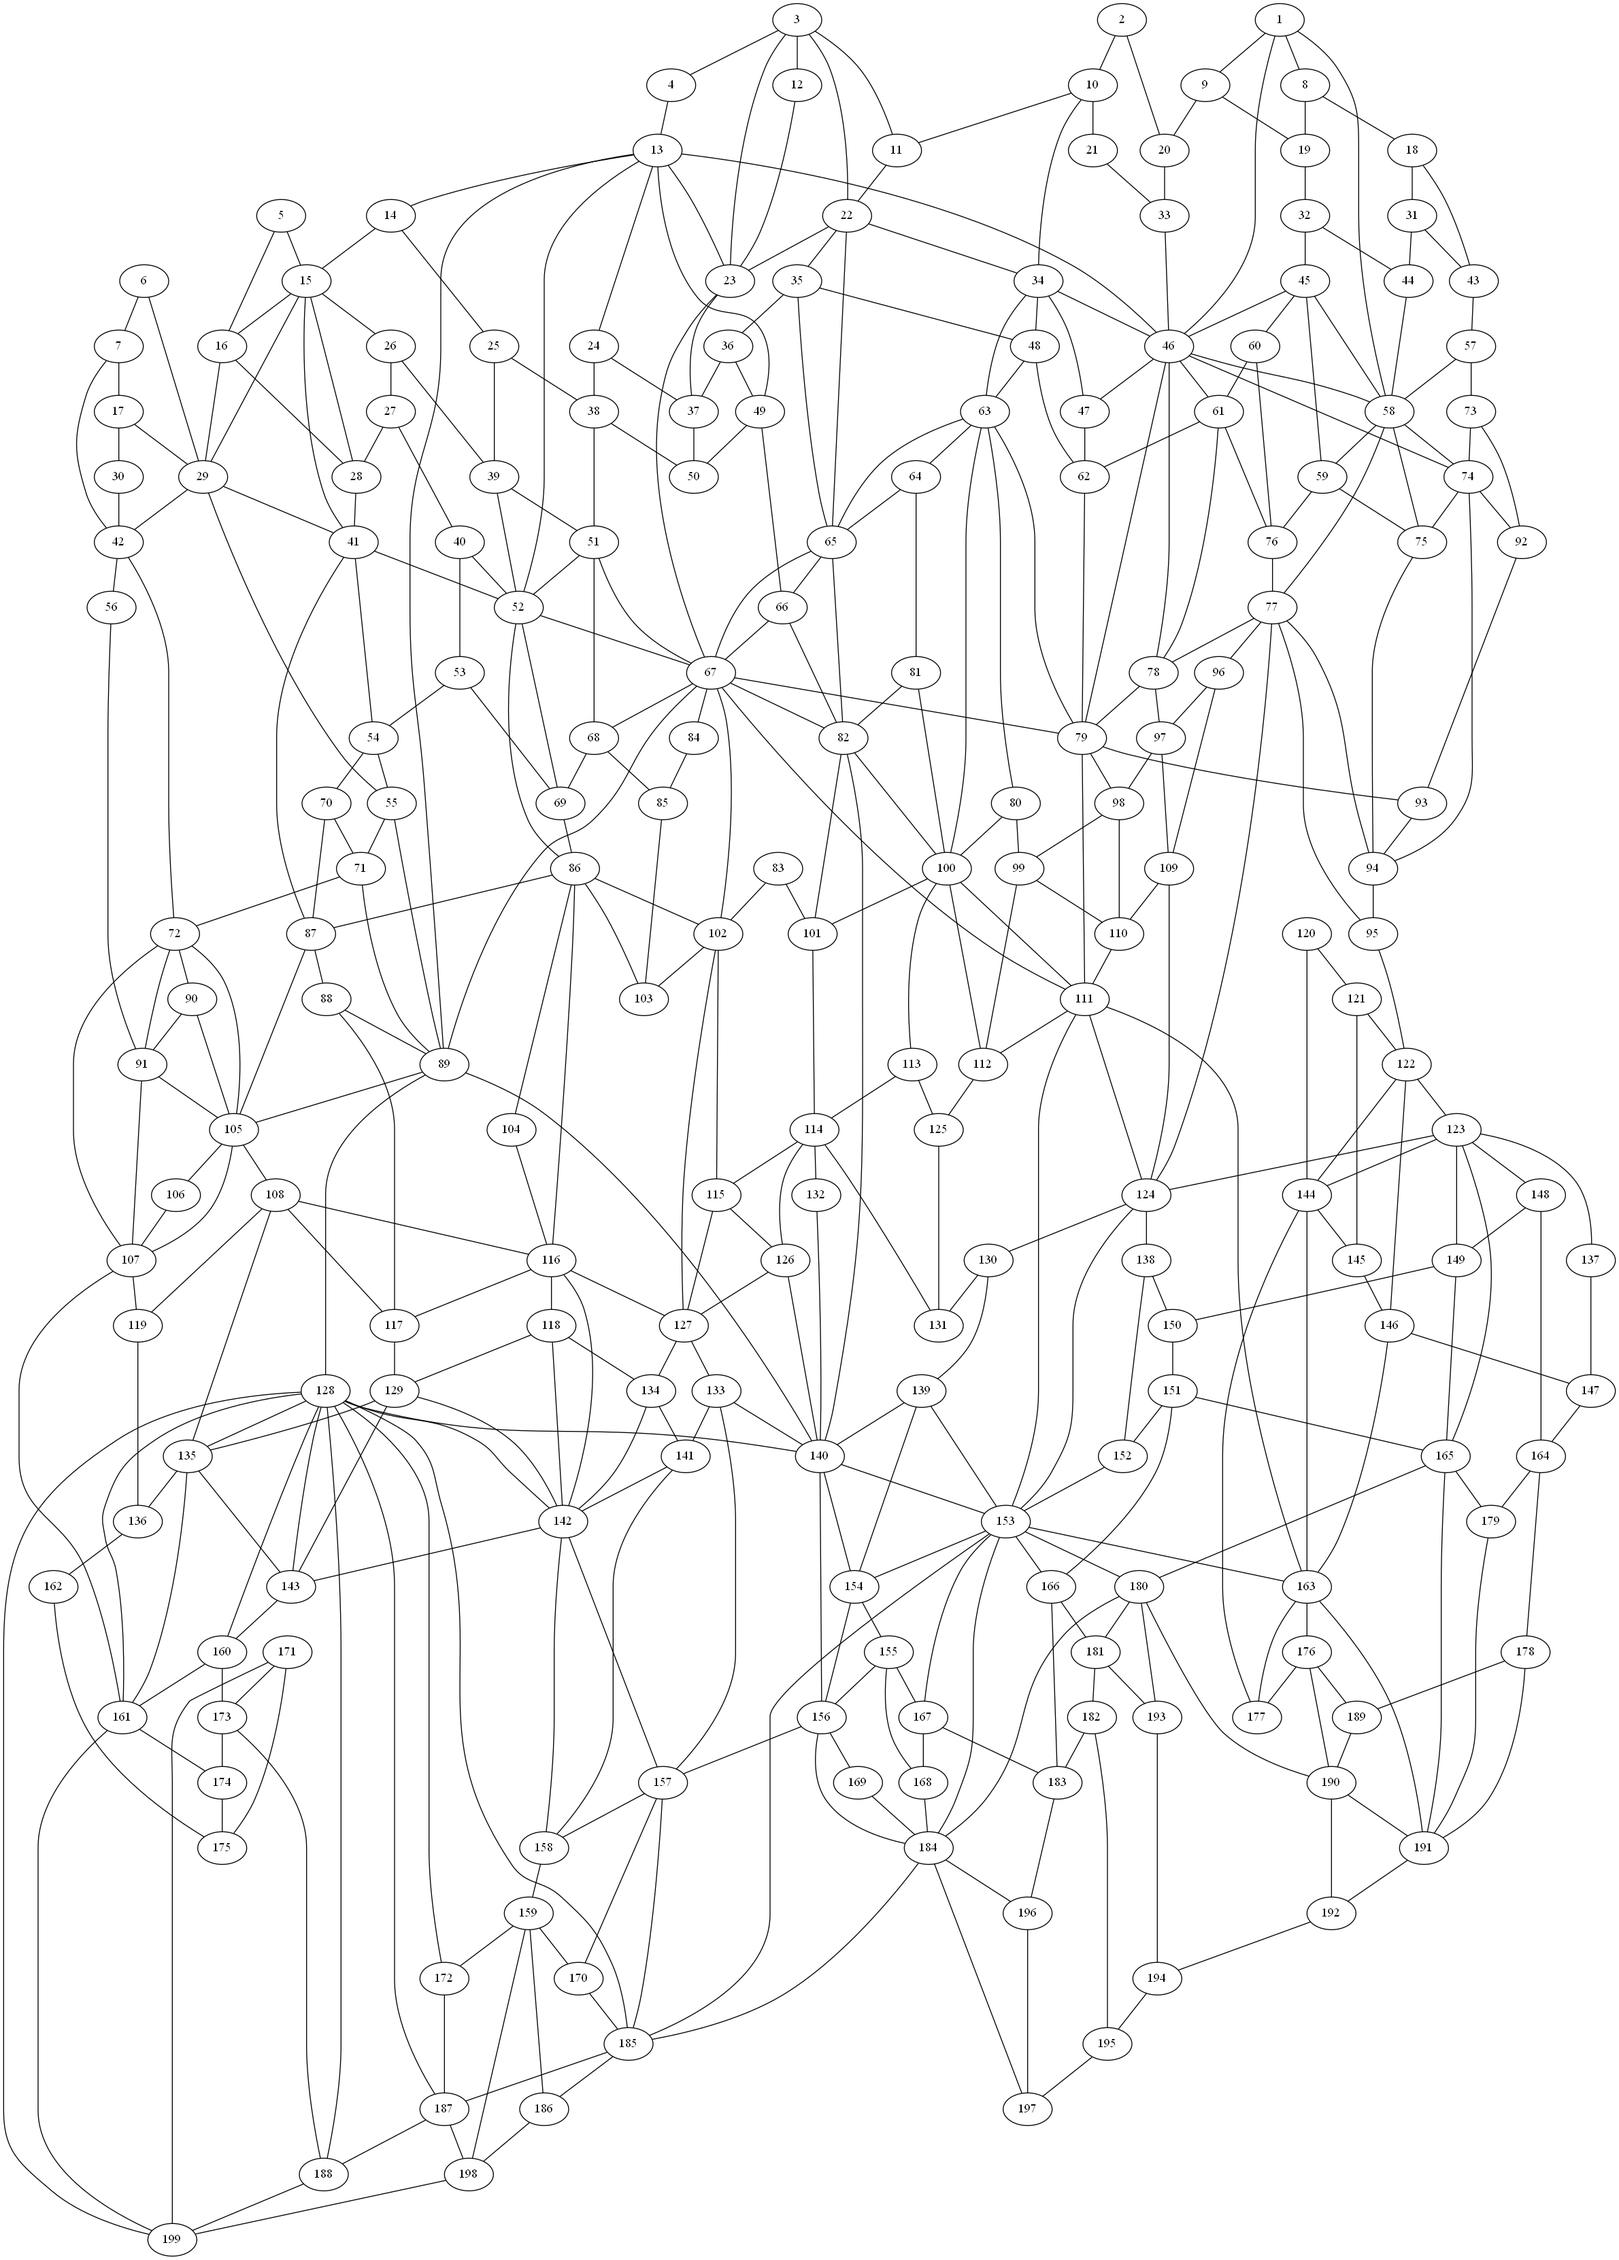
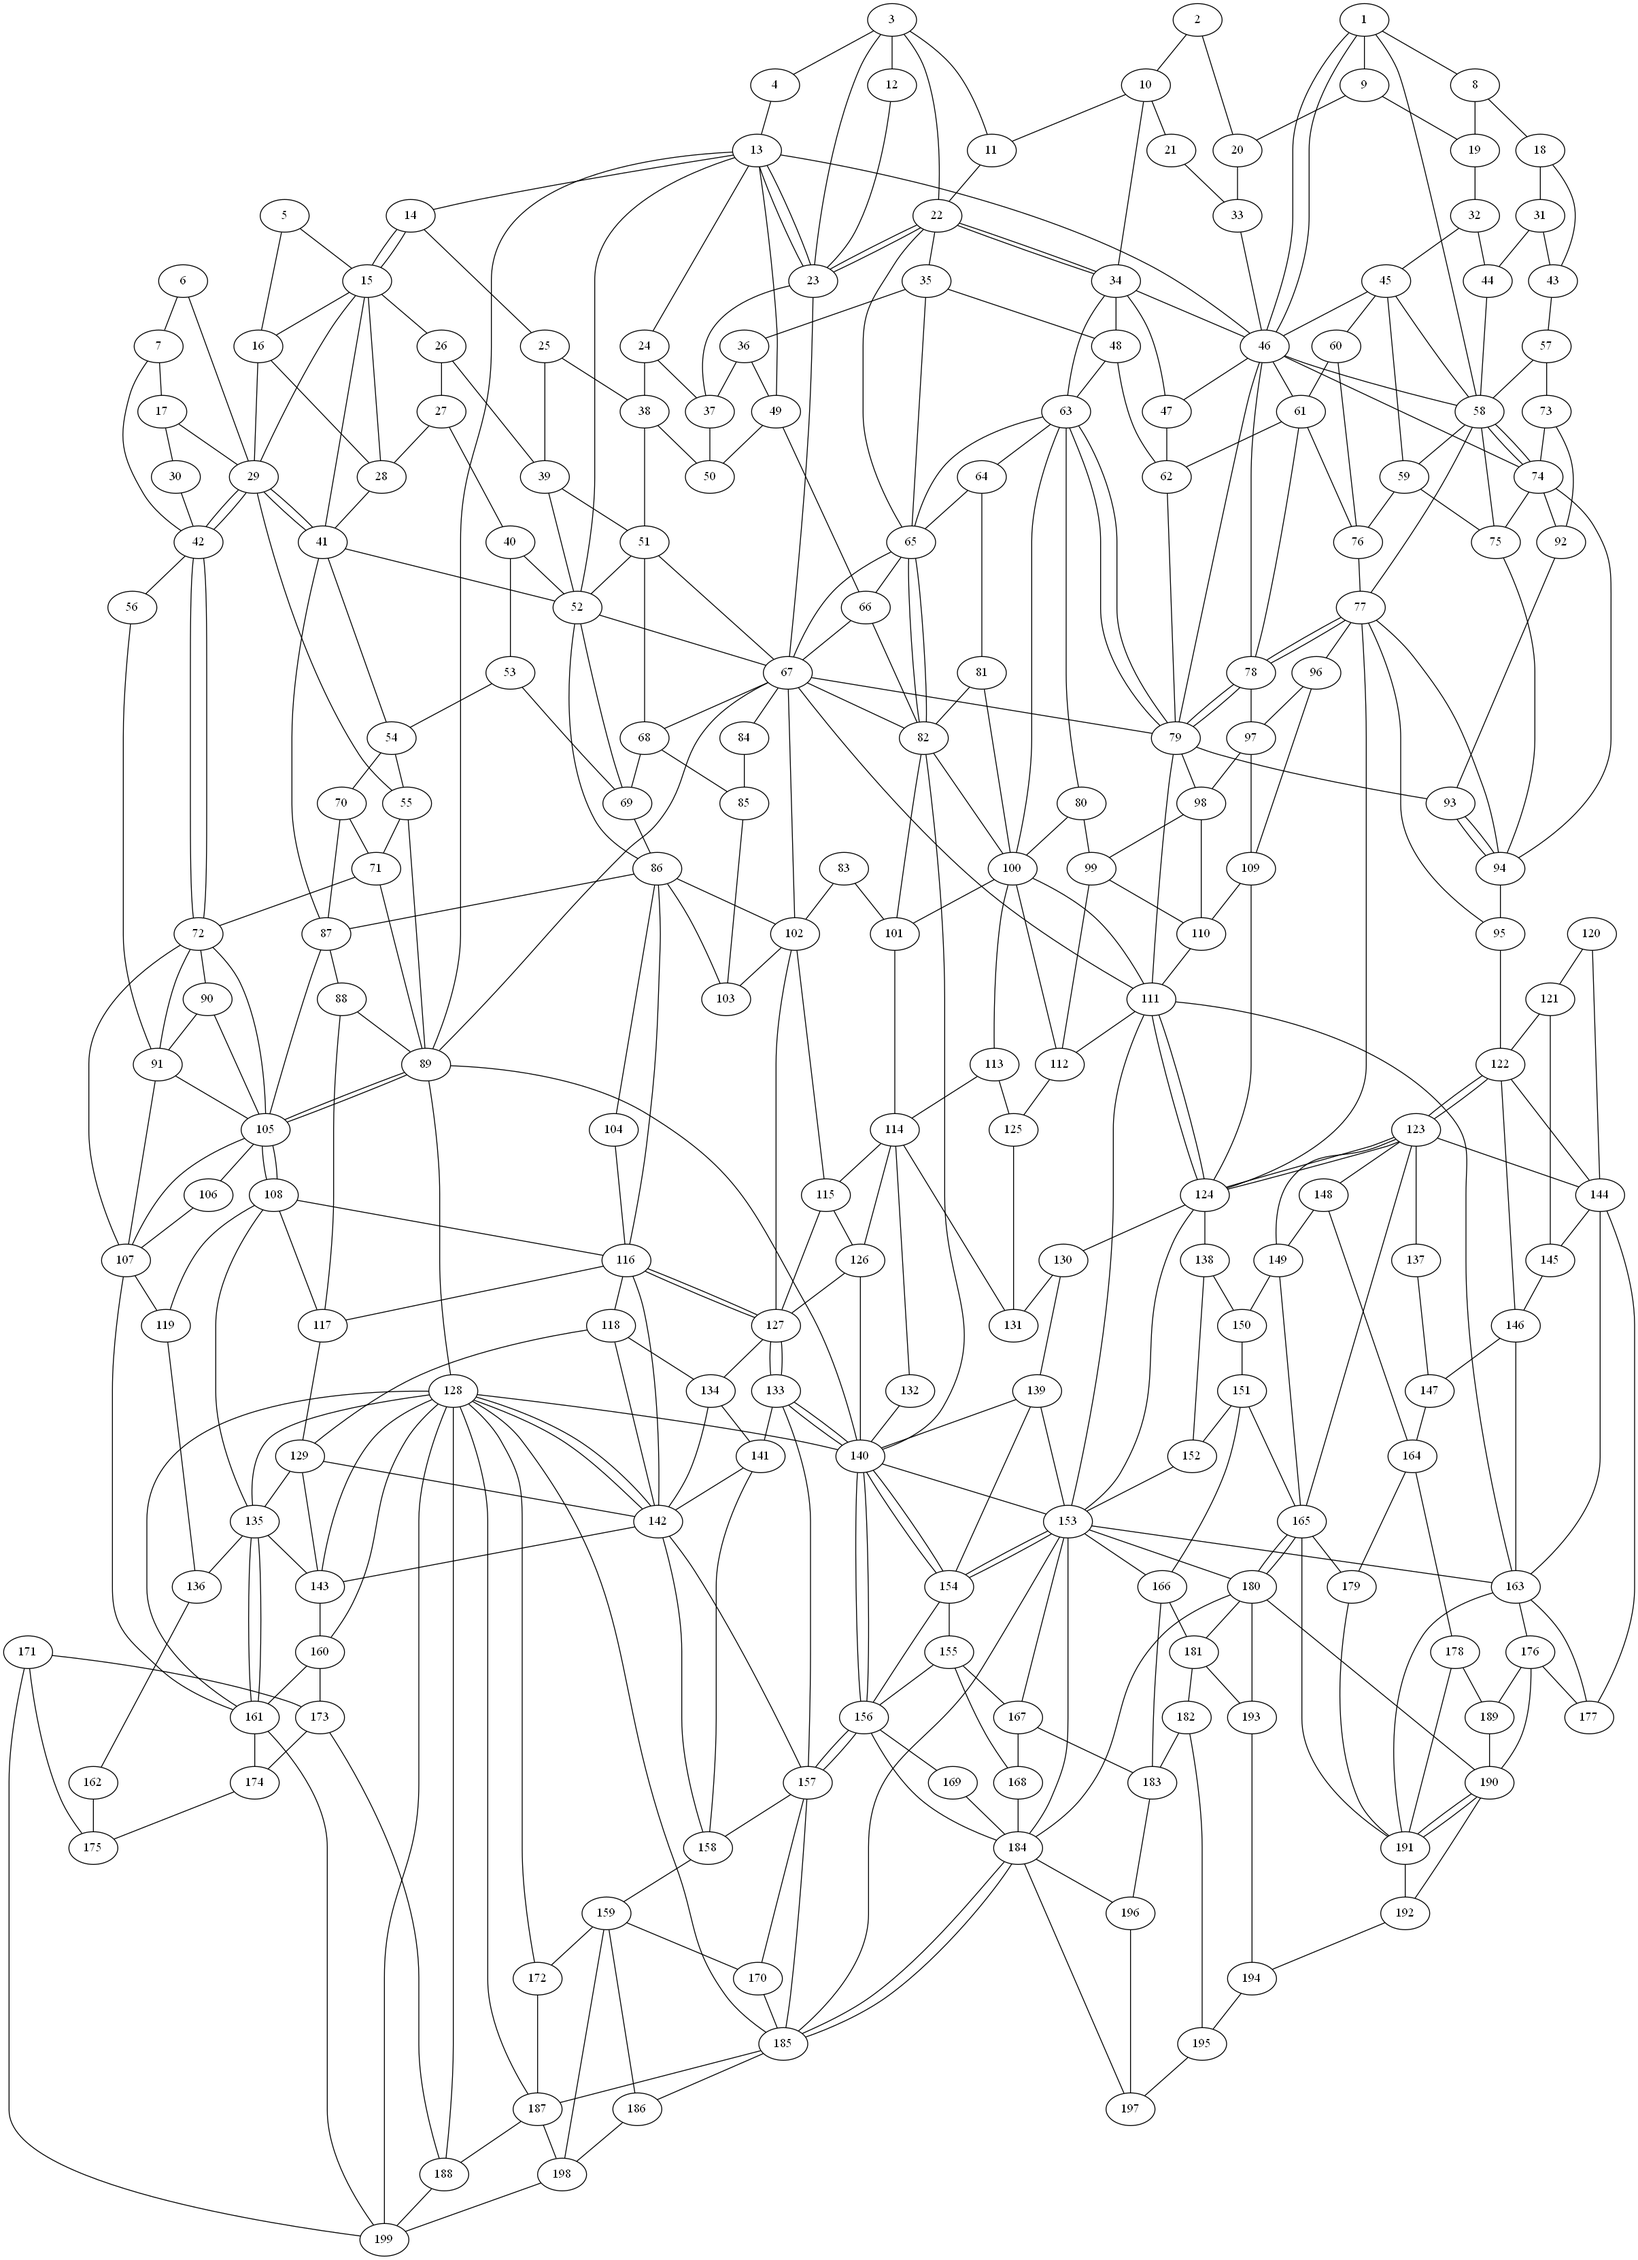
Add duplicate edges

diff --git a/test.py b/test.py
@@ -7,7 +7,7 @@ from pydotplus.graphviz import Node
  # Create London graph
 london_graph = pdp.graphviz.Graph(graph_name='london_graph',
                                         graph_type='graph',
-                                        simplify=True)
+                                        simplify=False)
 
 # Create graph nodes
 for i in range(1, 200):
